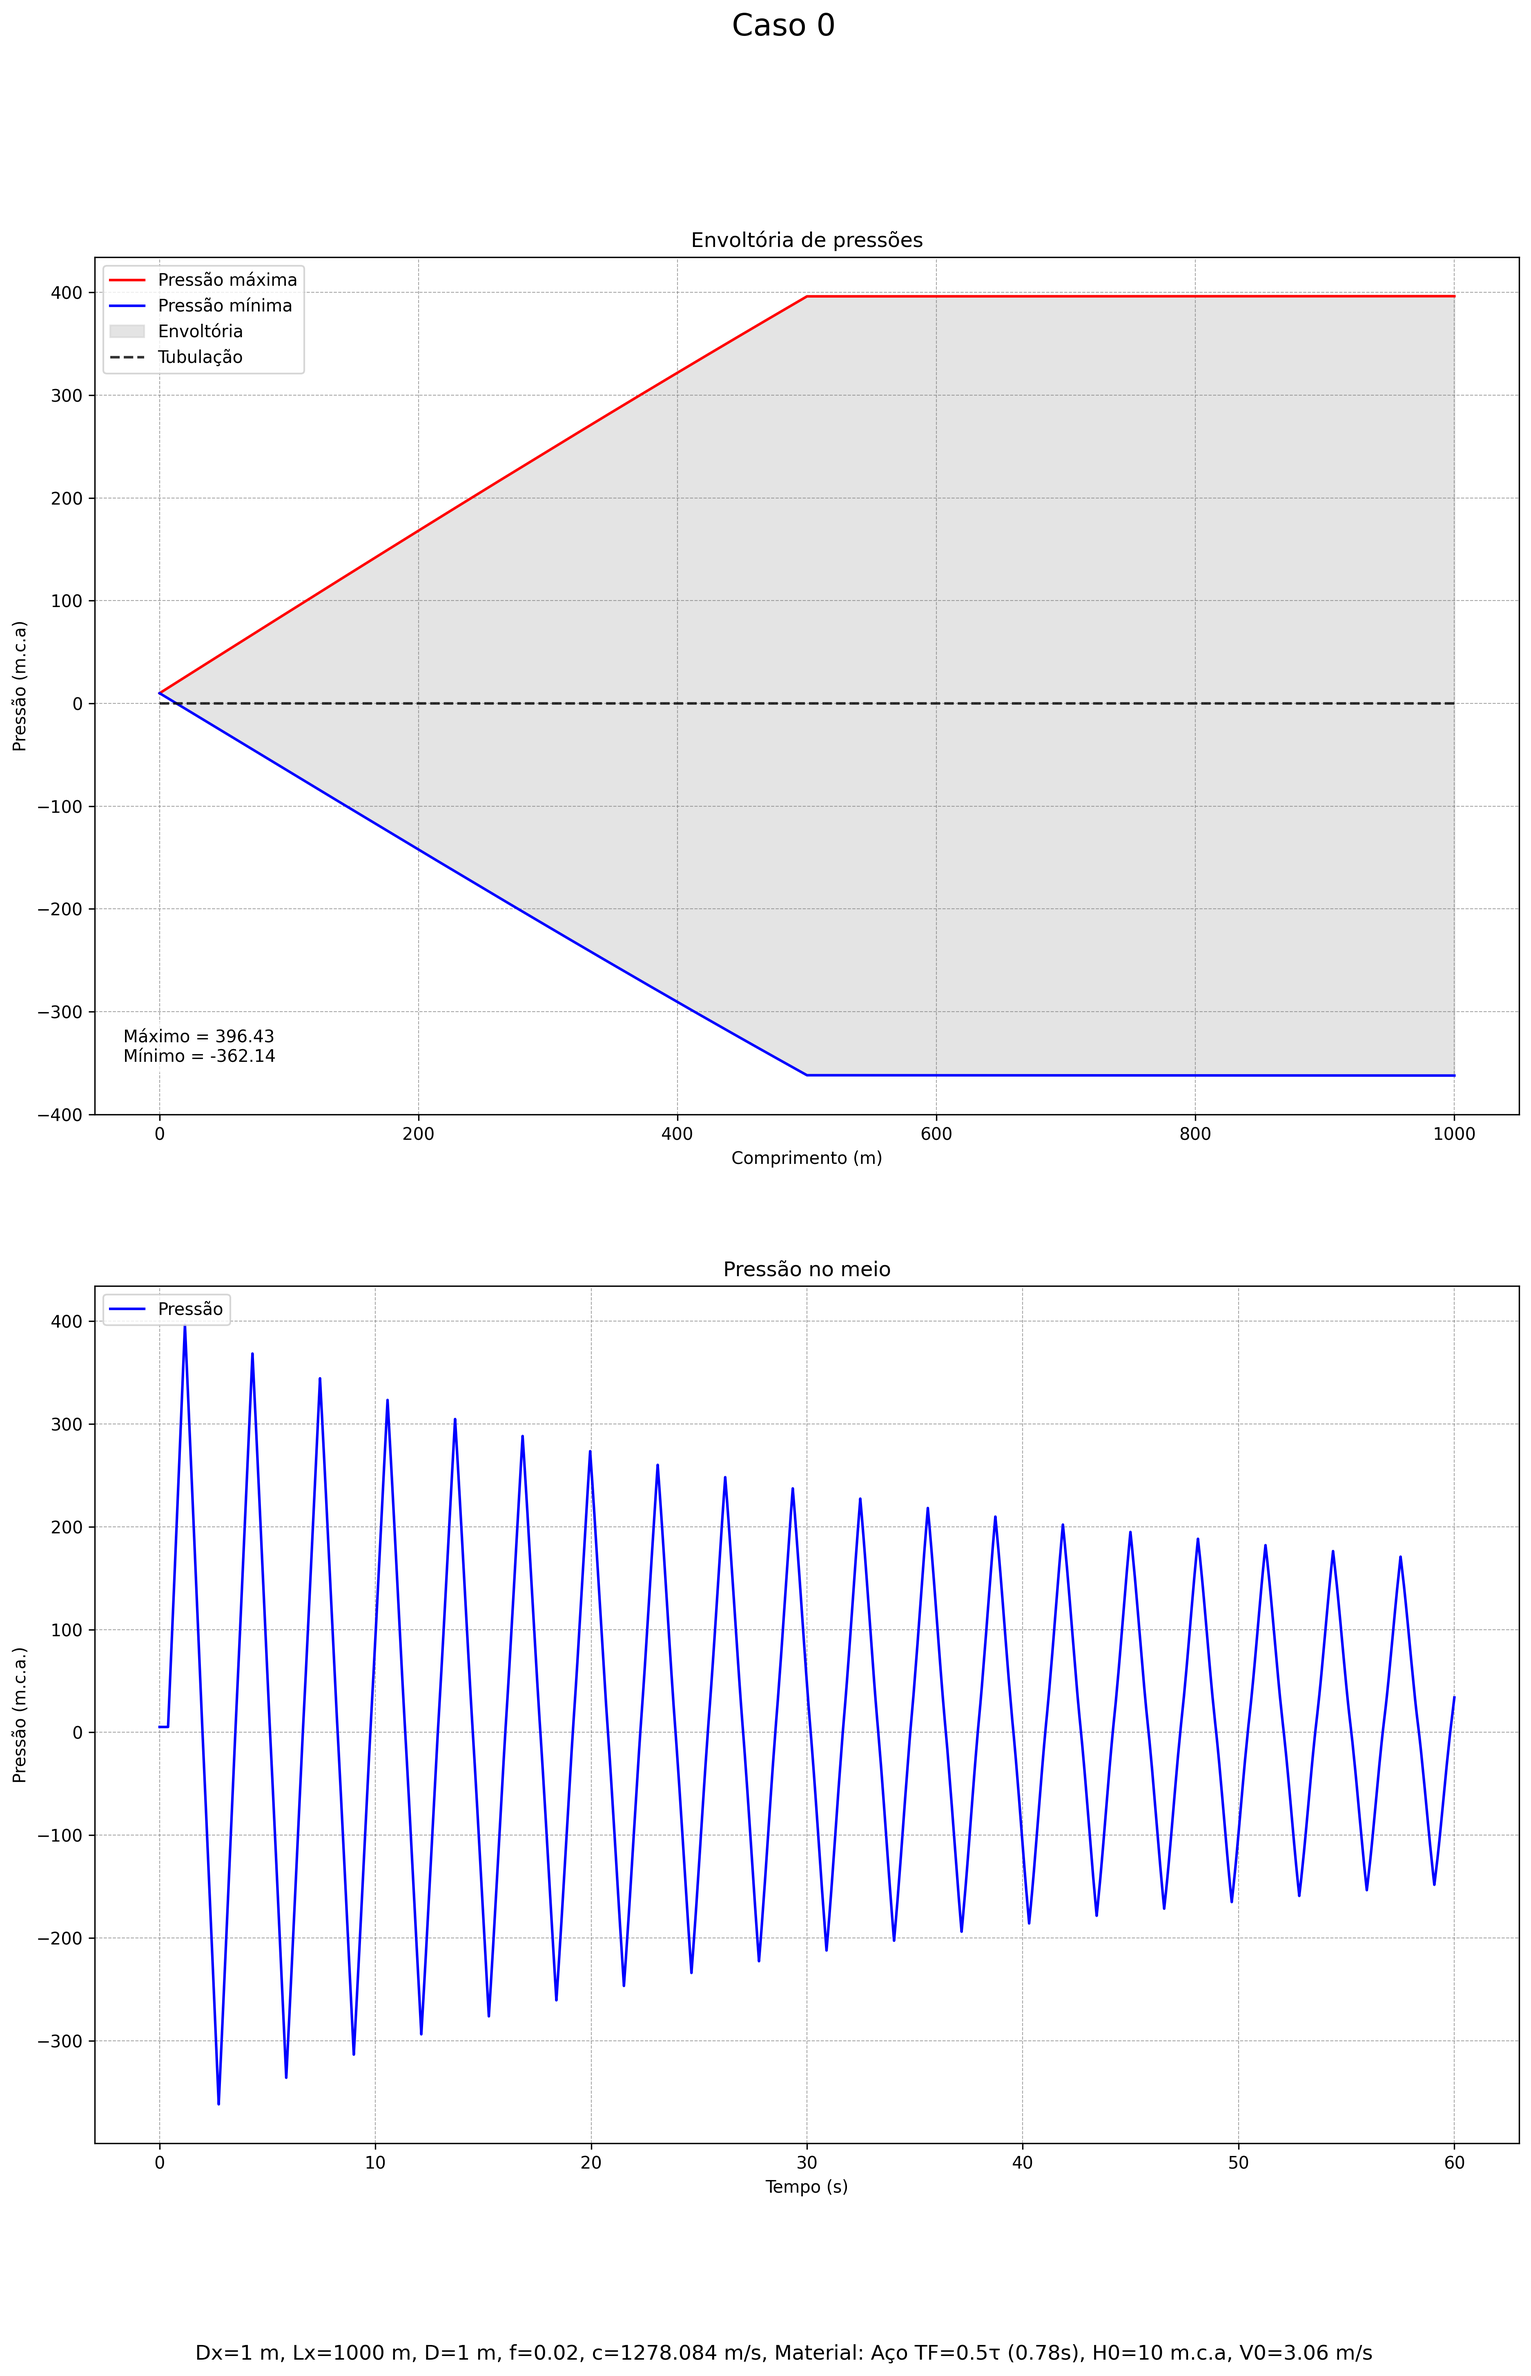
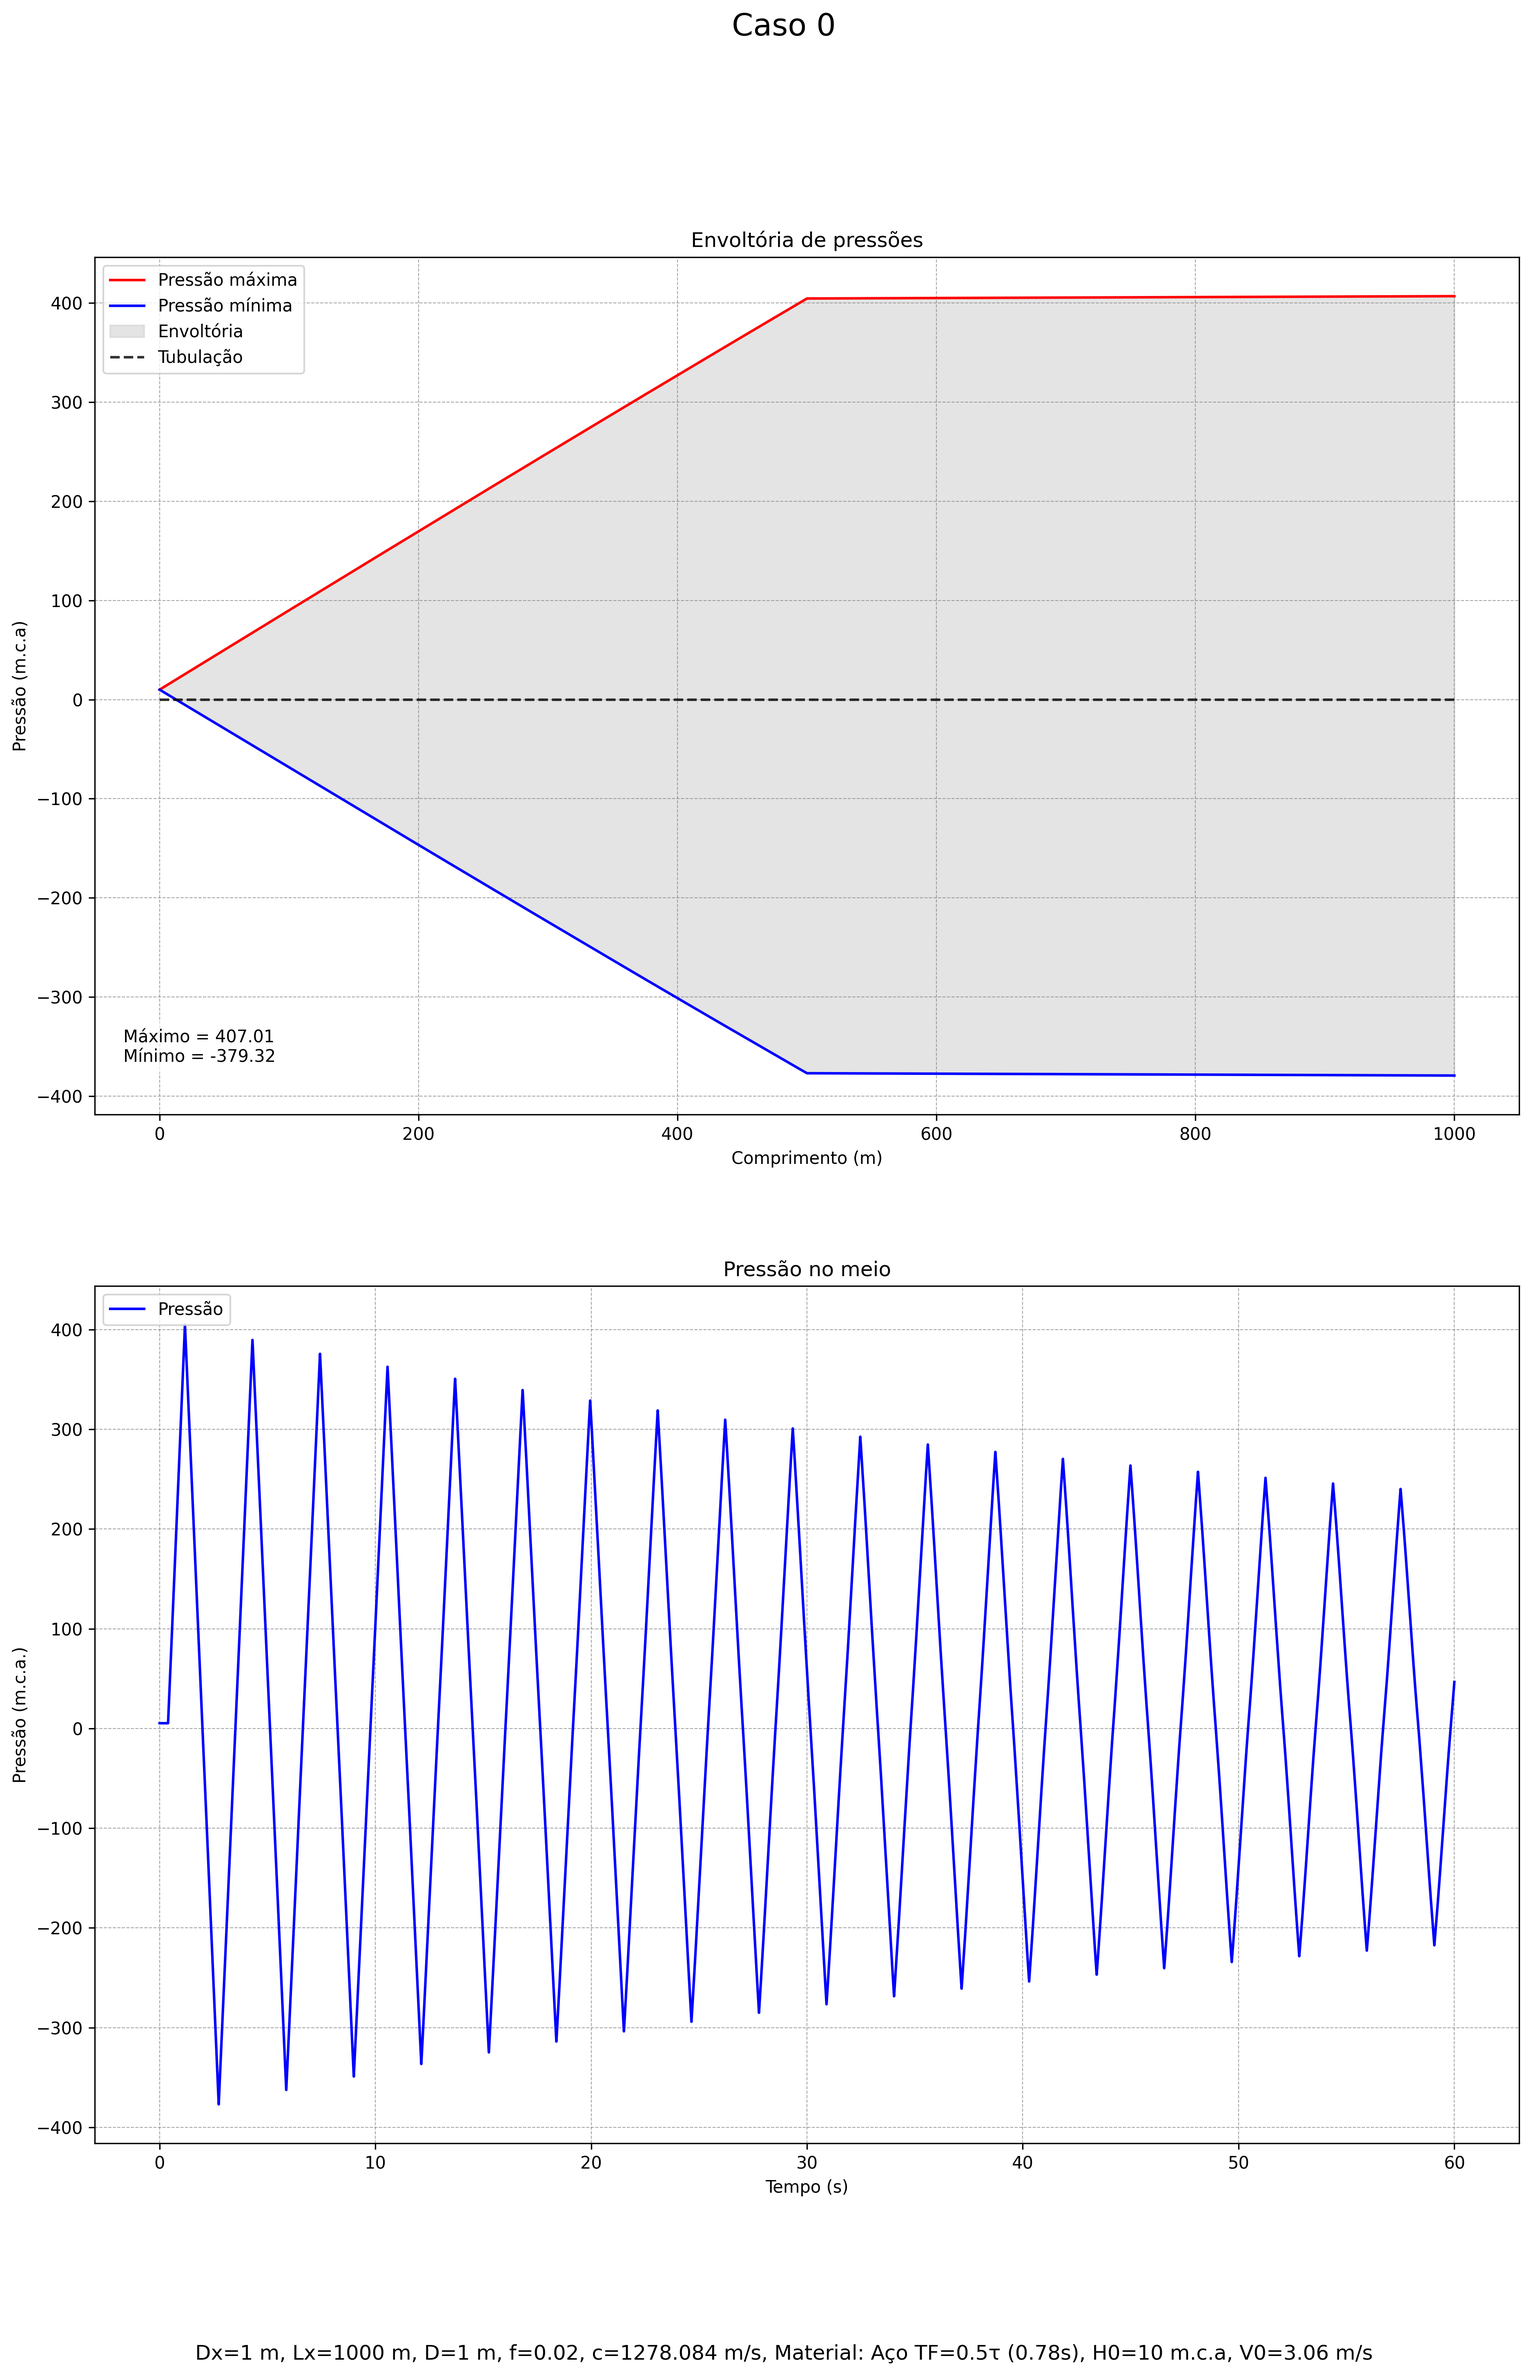
Ajuste no termo de atrito e S_09

diff --git a/transiente-hidraulico-moc-slicing.py b/transiente-hidraulico-moc-slicing.py
@@ -10,6 +10,8 @@ pasta_saida = "graficos_slicing"    # Cria o nome da pasta para salvar gráficos
 os.makedirs(pasta_saida, exist_ok=True)      # Cria a pasta para salvar gráficos e animações
 animacao = False     # Define se vai ser gerada a animação
 
+
+# Define os casos simulados, na ordem: Dx, D, c, TF, TT, Material
 casos = [[1, 1, 1278.084, 0.5, 60, 'Aço'],
          [1, 0.15, 1382.015, 0.5, 60,'Aço'],
          [1, 0.5, 1330.808, 0.5, 60,'Aço'],
@@ -21,11 +23,11 @@ casos = [[1, 1, 1278.084, 0.5, 60, 'Aço'],
          [1, 0.5, 609.996, 0.5, 60,'PVC'],
 ]
 
-# Define os casos simulados, na ordem: Dx, D, c, TF, TT, Material
 
 tempo_casos = []    # Matriz para simular o tempo dos casos
 tabela_maximos = []     # Cria uma tabela para armazenar os valores de máximos e mínimos de cada simulação
 cota_terreno = 0     # Define uma cota para a tubulação horizontal
+
 
 for caso_simulado in tqdm(range(len(casos)), desc="Simulando casos"):     # Inicia a simulação de cada caso, gerenciando o tempo de simulação
 
@@ -94,33 +96,17 @@ for caso_simulado in tqdm(range(len(casos)), desc="Simulando casos"):     # Inic
         Q_dir = vazao[t-1, 2:]    # Vizinho i+1 (Q_B)
         P_dir = pressao[t-1, 2:]
         
-        # --- Método das Características com Linearização do Atrito (Wylie & Streeter) ---
+        # --- Método das Características com Linearização do Atrito
+        Cp = Q_esq + Ca * P_esq
+        Cn = Q_dir - Ca * P_dir
         
-        # Calculamos Cp e Cn APENAS com a parte linear (sem subtrair atrito ainda)
-        # Lembre-se: Ca = g*A/a. Nas equações padrão MOC: Cp = Q + (gA/a)*H
-        Cp_base = Q_esq + Ca * P_esq
-        Cn_base = Q_dir - Ca * P_dir
-        
-        # Fator de amortecimento devido ao atrito (O Denominador Mágico)
-        # k = f * dt / (2 * D * A)
-        # O termo de atrito atua nas duas características chegando ao ponto P.
-        # Somamos a resistência vinda da esquerda e da direita.
-        fator_atrito = 1 + k * (np.abs(Q_esq) + np.abs(Q_dir))
+        fator_atrito =  k * (np.abs(Q_esq) + np.abs(Q_dir))
         
         # Cálculo final da Vazão (Qp) com o denominador
-        vazao[t, 1:-1] = (Cp_base + Cn_base) / (2 * fator_atrito)
+        vazao[t, 1:-1] = (Cp + Cn) / (2 + fator_atrito)
         
         # Cálculo da Pressão (Hp)
-        # Recuperamos Hp substituindo o Qp encontrado em uma das equações de compatibilidade
-        # Hp = (Cp_base - Qp*(1 + k*|Q_esq|)) / Ca ... mas podemos simplificar pela média:
-        pressao[t, 1:-1] = (Cp_base - Cn_base) / (2 * Ca) 
-        
-        # Nota: A equação de pressão acima é uma simplificação válida se o termo de atrito 
-        # for distribuído simetricamente, o que é verdade para tubos uniformes.
-        # Se quiser a precisão exata do método de Wylie Streeter para a pressão também:
-        # termo_atrito_esq = k * np.abs(Q_esq) * vazao[t, 1:-1]
-        # termo_atrito_dir = k * np.abs(Q_dir) * vazao[t, 1:-1]
-        # pressao[t, 1:-1] = ( (Cp_base - termo_atrito_esq) - (Cn_base + termo_atrito_dir) ) / (2*Ca)
+        pressao[t, 1:-1] = (Cp - Cn) / (2 * Ca) 
 
         # ---------------------------------------------------------
         # 2. CONDIÇÕES DE CONTORNO (Reservatório e Válvula)
@@ -135,7 +121,7 @@ for caso_simulado in tqdm(range(len(casos)), desc="Simulando casos"):     # Inic
 
         # --- VÁLVULA (i = Nx, ou índice -1) ---
         # Usa o vizinho i-1 (índice -2) do tempo anterior
-        cp_valv = vazao[t-1, -2] + Ca * pressao[t-1, -2] + k * vazao[t-1, -2] * abs(vazao[t-1, -2])
+        Cp_valv = vazao[t-1, -2] + Ca * pressao[t-1, -2] + k * vazao[t-1, -2] * abs(vazao[t-1, -2])
 
         vazao_tempo = v0 * (A0 - (t*Dt)*(A0/TF))   # Verifica o estado de fechamento
 
@@ -144,7 +130,7 @@ for caso_simulado in tqdm(range(len(casos)), desc="Simulando casos"):     # Inic
         else:
             vazao[t, -1] = 0
 
-        pressao[t, -1] = (cp_valv - vazao[t, -1]) / Ca
+        pressao[t, -1] = (Cp_valv - vazao[t, -1]) / Ca
 
     # --- SELECIONA DADOS DE INTERESSE ---
     envol_max = np.max(pressao, axis=0)                    # Olha a matriz de pressões e seleciona o maior valor de cada ponto.
